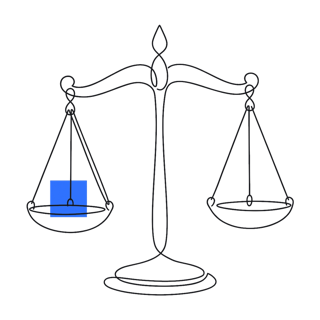
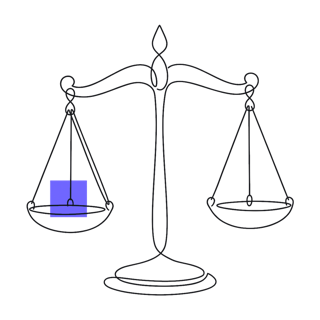
Neuf dessins repeints en violet, et le marqueur de version qui les fait arriver

Changed region(s): [[0.1562, 0.5625, 0.2812, 0.6875]]

diff --git a/index.html b/index.html
@@ -15,8 +15,8 @@
 <link rel="icon" type="image/png" sizes="192x192" href="icone-192.png">
 <link rel="manifest" href="manifest.webmanifest">
 <title>Allocation ETF — Profilage, allocation et arbitrages</title>
-<link rel="stylesheet" href="css/tokens.css?v=202608201623">
-<link rel="stylesheet" href="css/app.css?v=202608201623">
+<link rel="stylesheet" href="css/tokens.css?v=202608201641">
+<link rel="stylesheet" href="css/app.css?v=202608201641">
 </head>
 <body>
 
@@ -36,7 +36,7 @@
   <div class="marque">
     <!-- Le nom est porté par le lettrage ; le signe est décoratif ici,
          il n'a donc pas à être annoncé une seconde fois. -->
-    <img class="logo" src="img/logo.png?v=202608201623" alt="" aria-hidden="true" width="28" height="28">
+    <img class="logo" src="img/logo.png?v=202608201641" alt="" aria-hidden="true" width="28" height="28">
     <strong>myetf</strong>
     <span>Profilage investisseur · Allocation d'actifs · Arbitrages tactiques</span>
   </div>
@@ -470,7 +470,7 @@
 <footer class="pied">
   <!-- La pousse, comme dans l'en-tête. Le pied portait encore les trois
        barres de l'ancien signe : deux dessins pour une même application. -->
-  <img class="logo-pied" src="img/logo.png?v=202608201623" alt="" aria-hidden="true"
+  <img class="logo-pied" src="img/logo.png?v=202608201641" alt="" aria-hidden="true"
        width="18" height="18">
   <span>Application de Mayeul Lecomte</span>
   <!-- L'avertissement vit dans le pied plutôt que dans un bandeau sur
@@ -481,35 +481,35 @@
   en investissement.</span>
 </footer>
 
-<script src="js/data/libelles.js?v=202608201623"></script>
-<script src="js/data/questionnaire.js?v=202608201623"></script>
-<script src="js/data/allocations.js?v=202608201623"></script>
-<script src="js/data/macro.js?v=202608201623"></script>
-<script src="js/data/etf-univers.js?v=202608201623"></script>
-<script src="js/data/ecarts-univers.js?v=202608201623"></script>
-<script src="js/data/fiscalite.js?v=202608201623"></script>
-<script src="js/data/historique.js?v=202608201623"></script>
-<script src="js/data/note-marche.js?v=202608201623"></script>
-<script src="js/data/cours-historique.js?v=202608201623"></script>
-<script src="js/data/cours-marche.js?v=202608201623"></script>
-<script src="js/engine/profil.js?v=202608201623"></script>
-<script src="js/engine/allocation.js?v=202608201623"></script>
-<script src="js/engine/selection.js?v=202608201623"></script>
-<script src="js/engine/arbitrage.js?v=202608201623"></script>
-<script src="js/engine/revenus.js?v=202608201623"></script>
-<script src="js/engine/situation.js?v=202608201623"></script>
-<script src="js/engine/contrat.js?v=202608201623"></script>
-<script src="js/engine/univers.js?v=202608201623"></script>
-<script src="js/engine/backtest.js?v=202608201623"></script>
-<script src="js/ui/socle.js?v=202608201623"></script>
-<script src="js/ui/dossier.js?v=202608201623"></script>
-<script src="js/ui/navigation.js?v=202608201623"></script>
-<script src="js/ui/vues-profil.js?v=202608201623"></script>
-<script src="js/ui/vues-allocation.js?v=202608201623"></script>
-<script src="js/ui/vues-suivi.js?v=202608201623"></script>
-<script src="js/ui/catalogue.js?v=202608201623"></script>
-<script src="js/ui/rapport.js?v=202608201623"></script>
-<script src="js/ui/entrees.js?v=202608201623"></script>
-<script src="js/app.js?v=202608201623"></script>
+<script src="js/data/libelles.js?v=202608201641"></script>
+<script src="js/data/questionnaire.js?v=202608201641"></script>
+<script src="js/data/allocations.js?v=202608201641"></script>
+<script src="js/data/macro.js?v=202608201641"></script>
+<script src="js/data/etf-univers.js?v=202608201641"></script>
+<script src="js/data/ecarts-univers.js?v=202608201641"></script>
+<script src="js/data/fiscalite.js?v=202608201641"></script>
+<script src="js/data/historique.js?v=202608201641"></script>
+<script src="js/data/note-marche.js?v=202608201641"></script>
+<script src="js/data/cours-historique.js?v=202608201641"></script>
+<script src="js/data/cours-marche.js?v=202608201641"></script>
+<script src="js/engine/profil.js?v=202608201641"></script>
+<script src="js/engine/allocation.js?v=202608201641"></script>
+<script src="js/engine/selection.js?v=202608201641"></script>
+<script src="js/engine/arbitrage.js?v=202608201641"></script>
+<script src="js/engine/revenus.js?v=202608201641"></script>
+<script src="js/engine/situation.js?v=202608201641"></script>
+<script src="js/engine/contrat.js?v=202608201641"></script>
+<script src="js/engine/univers.js?v=202608201641"></script>
+<script src="js/engine/backtest.js?v=202608201641"></script>
+<script src="js/ui/socle.js?v=202608201641"></script>
+<script src="js/ui/dossier.js?v=202608201641"></script>
+<script src="js/ui/navigation.js?v=202608201641"></script>
+<script src="js/ui/vues-profil.js?v=202608201641"></script>
+<script src="js/ui/vues-allocation.js?v=202608201641"></script>
+<script src="js/ui/vues-suivi.js?v=202608201641"></script>
+<script src="js/ui/catalogue.js?v=202608201641"></script>
+<script src="js/ui/rapport.js?v=202608201641"></script>
+<script src="js/ui/entrees.js?v=202608201641"></script>
+<script src="js/app.js?v=202608201641"></script>
 </body>
 </html>

diff --git a/js/ui/socle.js b/js/ui/socle.js
@@ -173,7 +173,17 @@ function tailleOuverture(dessin) {
 }
 
 function illustration(nom, taille) {
-  return '<img class="illustration" src="img/' + nom + '.png" alt="" aria-hidden="true" ' +
+  /* Le marqueur de version, comme sur les scripts et la feuille de style.
+     Sans lui, un navigateur qui a déjà ouvert l'application garde les
+     anciens dessins indéfiniment : on repeindrait une application que
+     personne ne verrait repeinte. Le logo de l'en-tête le portait déjà,
+     écrit en dur dans index.html ; les seize dessins de vue, non.
+
+     `versionChargee()` lit le `?v=` du `<script>` d'app.js — donc la
+     version RÉELLEMENT chargée, et non celle que le HTML annonce. */
+  const v = typeof versionChargee === 'function' ? versionChargee() : null;
+  return '<img class="illustration" src="img/' + nom + '.png' + (v ? '?v=' + v : '') +
+    '" alt="" aria-hidden="true" ' +
     'width="' + taille + '" height="' + taille + '" style="width:' + taille + 'px;height:' + taille + 'px">';
 }
 
@@ -199,11 +209,11 @@ const ILLUSTRATIONS_VUES = {
      arbitrages, où elle dit ce qu'elle sait dire — rééquilibrer deux
      plateaux.
 
-     ⚠ SA PART EST VIOLETTE (#6C63FF), et c'est voulu : le dessin est déjà
-     prêt pour la bascule pastel à venir. C'est aujourd'hui la seule entorse
-     au « bleu, seule couleur » — ne pas la « corriger » en croyant à un
-     oubli. */
-  allocation:   'repartition',
+     Sa part est violette, comme l'accent. Ce fut un temps la seule entorse
+     au « bleu, seule couleur » — le dessin avait pris l'avance sur la
+     bascule pastel. Depuis, c'est toute la feuille qui l'a rejoint, et
+     l'avertissement n'a plus lieu d'être. */
+  allocation:   'camembert',
   portefeuille: 'fiches',
   /* La balance : deux plateaux qu'on rééquilibre, c'est exactement un
      arbitrage. Elle ouvrait « Mon allocation », où elle disait un dosage
